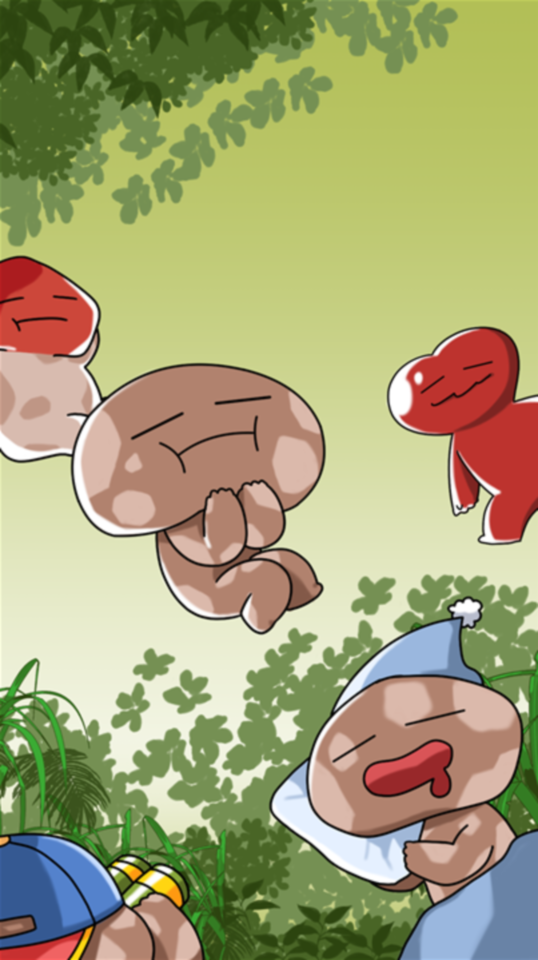
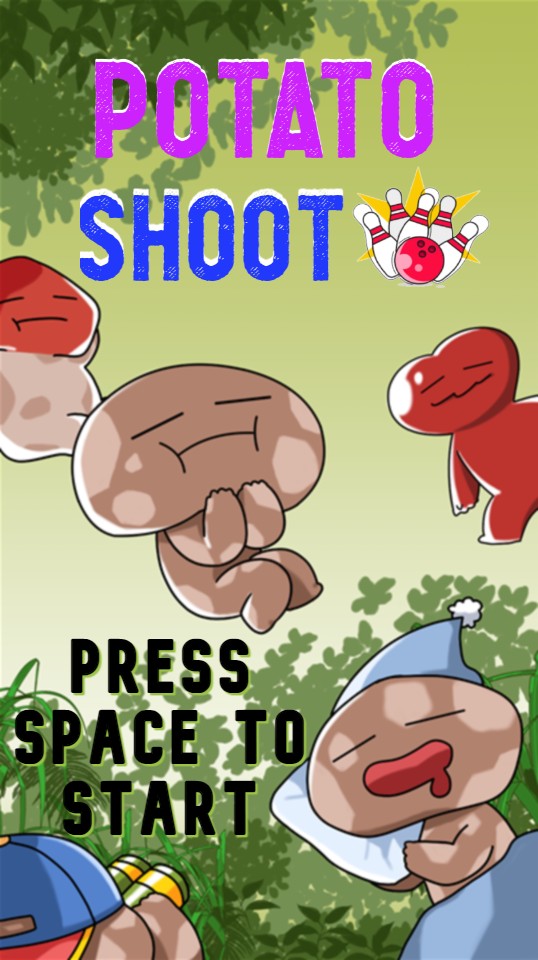
타이틀 모드 추가

Changed region(s): [[0.1487, 0.0625, 0.9219, 0.3125], [0.0297, 0.6562, 0.5948, 0.875]]

diff --git a/Potato Shoot/title_mode.py b/Potato Shoot/title_mode.py
@@ -1,0 +1,42 @@
+from sdl2 import SDL_QUIT, SDL_KEYDOWN, SDLK_ESCAPE, SDLK_SPACE
+import game_framework
+from pico2d import get_events, load_image, clear_canvas, update_canvas, get_time
+import play_mode
+
+
+def init():
+    global image
+    image = load_image('Resource\\Ground\\title.png')
+
+
+def finish():
+    pass
+
+
+def update():
+    pass
+
+
+def draw():
+    clear_canvas()
+    image.draw(270, 480)
+    update_canvas()
+
+
+def handle_events():
+    events = get_events()
+    for event in events:
+        if event.type == SDL_QUIT:
+            game_framework.quit()
+        elif event.type == SDL_KEYDOWN and event.key == SDLK_ESCAPE:
+            game_framework.quit()
+        elif (event.type, event.key) == (SDL_KEYDOWN, SDLK_SPACE):
+            game_framework.change_mode(play_mode)
+
+
+def pause():
+    pass
+
+
+def resume():
+    pass

diff --git a/Potato Shoot/play_mode.py b/Potato Shoot/play_mode.py
@@ -5,7 +5,8 @@ from ground import Ground
 from potato import Potato
 from bottle import Bottle
 from water import Water
-from point import Point
+from sdl2 import SDL_KEYDOWN
+import title_mode
 
 
 def handle_events():
@@ -14,7 +15,7 @@ def handle_events():
         if event.type == SDL_QUIT:
             game_framework.quit()
         elif event.type == SDL_KEYDOWN and event.key == SDLK_ESCAPE:
-            game_framework.quit()
+            game_framework.change_mode(title_mode)
         else:
             potato.handle_event(event)
 

diff --git a/Potato Shoot/main.py b/Potato Shoot/main.py
@@ -1,8 +1,9 @@
-from pico2d import open_canvas, delay, close_canvas
+from pico2d import open_canvas, close_canvas
 import game_framework
+import title_mode
 
 import play_mode as start_mode
 
 open_canvas(540, 960)
-game_framework.run(start_mode)
+game_framework.run(title_mode)
 close_canvas()
